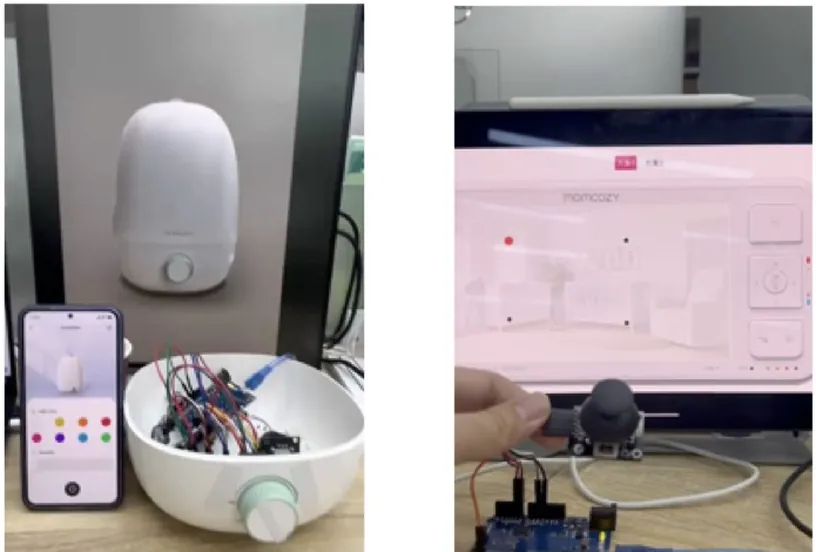
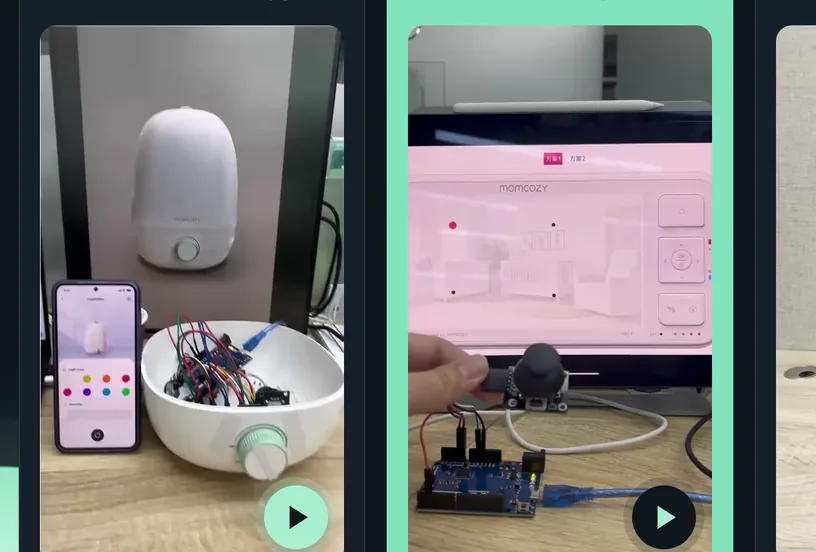
Refresh standardization and usability folder thumbnails (#27)
The STANDARDIZATION card now shows SmartHome, TSmartLife, and ECOMASTER sheets, and the usability thumbs are replaced.

diff --git a/app.html b/app.html
@@ -255,8 +255,9 @@
               <div class="gf-back" aria-hidden="true"><img class="gf-art" src="assets/images/works/cover-fluid-standardization.webp" alt="" loading="lazy" decoding="async" /><span class="gf-back-sheen"></span></div>
               <svg class="gf-rim gf-back-rim" viewBox="0 0 340 272" preserveAspectRatio="none" aria-hidden="true"><use href="#gf-path-back" /></svg>
               <div class="gf-files" aria-hidden="true">
-                <span class="gf-sheet gf-sheet--light" style="--depth: 1; --slot: -0.5; --gf-jx: -6; --gf-jr: -2.2deg"><span class="gf-lines"><i></i><i></i><i></i><i></i></span></span>
-                <span class="gf-sheet gf-sheet--light gf-sheet--icon" style="--depth: 0; --slot: 0.5; --gf-jx: 5; --gf-jr: 1.6deg"><img src="assets/images/Design_System_icon.svg" alt="" loading="lazy" decoding="async" /></span>
+                <span class="gf-sheet gf-sheet--art" style="--depth: 2; --slot: -1; --gf-jx: -6; --gf-jr: -2.2deg"><img src="assets/images/works/thumb-std-smarthome.webp" alt="" loading="lazy" decoding="async" /><span class="gf-sheet-name">SmartHome</span></span>
+                <span class="gf-sheet gf-sheet--art" style="--depth: 1; --slot: 0; --gf-jx: 5; --gf-jr: 1.6deg"><img src="assets/images/works/thumb-std-tsmartlife.webp" alt="" loading="lazy" decoding="async" /><span class="gf-sheet-name">TSmartLife</span></span>
+                <span class="gf-sheet gf-sheet--art" style="--depth: 0; --slot: 1; --gf-jx: -2; --gf-jr: -0.6deg"><img src="assets/images/works/thumb-std-ecomaster.webp" alt="" loading="lazy" decoding="async" /><span class="gf-sheet-name">ECOMASTER</span></span>
               </div>
               <div class="gf-front">
                 <span class="gf-tint" aria-hidden="true"></span><span class="gf-spec" aria-hidden="true"></span>

diff --git a/hardware.html b/hardware.html
@@ -264,8 +264,9 @@
               <div class="gf-back" aria-hidden="true"><img class="gf-art" src="assets/images/works/cover-fluid-standardization.webp" alt="" loading="lazy" decoding="async" /><span class="gf-back-sheen"></span></div>
               <svg class="gf-rim gf-back-rim" viewBox="0 0 340 272" preserveAspectRatio="none" aria-hidden="true"><use href="#gf-path-back" /></svg>
               <div class="gf-files" aria-hidden="true">
-                <span class="gf-sheet gf-sheet--light" style="--depth: 1; --slot: -0.5; --gf-jx: -6; --gf-jr: -2.2deg"><span class="gf-lines"><i></i><i></i><i></i><i></i></span></span>
-                <span class="gf-sheet gf-sheet--light gf-sheet--icon" style="--depth: 0; --slot: 0.5; --gf-jx: 5; --gf-jr: 1.6deg"><img src="assets/images/Design_System_icon.svg" alt="" loading="lazy" decoding="async" /></span>
+                <span class="gf-sheet gf-sheet--art" style="--depth: 2; --slot: -1; --gf-jx: -6; --gf-jr: -2.2deg"><img src="assets/images/works/thumb-std-smarthome.webp" alt="" loading="lazy" decoding="async" /><span class="gf-sheet-name">SmartHome</span></span>
+                <span class="gf-sheet gf-sheet--art" style="--depth: 1; --slot: 0; --gf-jx: 5; --gf-jr: 1.6deg"><img src="assets/images/works/thumb-std-tsmartlife.webp" alt="" loading="lazy" decoding="async" /><span class="gf-sheet-name">TSmartLife</span></span>
+                <span class="gf-sheet gf-sheet--art" style="--depth: 0; --slot: 1; --gf-jx: -2; --gf-jr: -0.6deg"><img src="assets/images/works/thumb-std-ecomaster.webp" alt="" loading="lazy" decoding="async" /><span class="gf-sheet-name">ECOMASTER</span></span>
               </div>
               <div class="gf-front">
                 <span class="gf-tint" aria-hidden="true"></span><span class="gf-spec" aria-hidden="true"></span>

diff --git a/index.html b/index.html
@@ -301,8 +301,9 @@
               <div class="gf-back" aria-hidden="true"><img class="gf-art" src="assets/images/works/cover-fluid-standardization.webp" alt="" loading="lazy" decoding="async" /><span class="gf-back-sheen"></span></div>
               <svg class="gf-rim gf-back-rim" viewBox="0 0 340 272" preserveAspectRatio="none" aria-hidden="true"><use href="#gf-path-back" /></svg>
               <div class="gf-files" aria-hidden="true">
-                <span class="gf-sheet gf-sheet--light" style="--depth: 1; --slot: -0.5; --gf-jx: -6; --gf-jr: -2.2deg"><span class="gf-lines"><i></i><i></i><i></i><i></i></span></span>
-                <span class="gf-sheet gf-sheet--light gf-sheet--icon" style="--depth: 0; --slot: 0.5; --gf-jx: 5; --gf-jr: 1.6deg"><img src="assets/images/Design_System_icon.svg" alt="" loading="lazy" decoding="async" /></span>
+                <span class="gf-sheet gf-sheet--art" style="--depth: 2; --slot: -1; --gf-jx: -6; --gf-jr: -2.2deg"><img src="assets/images/works/thumb-std-smarthome.webp" alt="" loading="lazy" decoding="async" /><span class="gf-sheet-name">SmartHome</span></span>
+                <span class="gf-sheet gf-sheet--art" style="--depth: 1; --slot: 0; --gf-jx: 5; --gf-jr: 1.6deg"><img src="assets/images/works/thumb-std-tsmartlife.webp" alt="" loading="lazy" decoding="async" /><span class="gf-sheet-name">TSmartLife</span></span>
+                <span class="gf-sheet gf-sheet--art" style="--depth: 0; --slot: 1; --gf-jx: -2; --gf-jr: -0.6deg"><img src="assets/images/works/thumb-std-ecomaster.webp" alt="" loading="lazy" decoding="async" /><span class="gf-sheet-name">ECOMASTER</span></span>
               </div>
               <div class="gf-front">
                 <span class="gf-tint" aria-hidden="true"></span><span class="gf-spec" aria-hidden="true"></span>

diff --git a/insights.html b/insights.html
@@ -212,8 +212,9 @@
               <div class="gf-back" aria-hidden="true"><img class="gf-art" src="assets/images/works/cover-fluid-standardization.webp" alt="" loading="lazy" decoding="async" /><span class="gf-back-sheen"></span></div>
               <svg class="gf-rim gf-back-rim" viewBox="0 0 340 272" preserveAspectRatio="none" aria-hidden="true"><use href="#gf-path-back" /></svg>
               <div class="gf-files" aria-hidden="true">
-                <span class="gf-sheet gf-sheet--light" style="--depth: 1; --slot: -0.5; --gf-jx: -6; --gf-jr: -2.2deg"><span class="gf-lines"><i></i><i></i><i></i><i></i></span></span>
-                <span class="gf-sheet gf-sheet--light gf-sheet--icon" style="--depth: 0; --slot: 0.5; --gf-jx: 5; --gf-jr: 1.6deg"><img src="assets/images/Design_System_icon.svg" alt="" loading="lazy" decoding="async" /></span>
+                <span class="gf-sheet gf-sheet--art" style="--depth: 2; --slot: -1; --gf-jx: -6; --gf-jr: -2.2deg"><img src="assets/images/works/thumb-std-smarthome.webp" alt="" loading="lazy" decoding="async" /><span class="gf-sheet-name">SmartHome</span></span>
+                <span class="gf-sheet gf-sheet--art" style="--depth: 1; --slot: 0; --gf-jx: 5; --gf-jr: 1.6deg"><img src="assets/images/works/thumb-std-tsmartlife.webp" alt="" loading="lazy" decoding="async" /><span class="gf-sheet-name">TSmartLife</span></span>
+                <span class="gf-sheet gf-sheet--art" style="--depth: 0; --slot: 1; --gf-jx: -2; --gf-jr: -0.6deg"><img src="assets/images/works/thumb-std-ecomaster.webp" alt="" loading="lazy" decoding="async" /><span class="gf-sheet-name">ECOMASTER</span></span>
               </div>
               <div class="gf-front">
                 <span class="gf-tint" aria-hidden="true"></span><span class="gf-spec" aria-hidden="true"></span>

diff --git a/measurement.html b/measurement.html
@@ -160,8 +160,9 @@
               <div class="gf-back" aria-hidden="true"><img class="gf-art" src="assets/images/works/cover-fluid-standardization.webp" alt="" loading="lazy" decoding="async" /><span class="gf-back-sheen"></span></div>
               <svg class="gf-rim gf-back-rim" viewBox="0 0 340 272" preserveAspectRatio="none" aria-hidden="true"><use href="#gf-path-back" /></svg>
               <div class="gf-files" aria-hidden="true">
-                <span class="gf-sheet gf-sheet--light" style="--depth: 1; --slot: -0.5; --gf-jx: -6; --gf-jr: -2.2deg"><span class="gf-lines"><i></i><i></i><i></i><i></i></span></span>
-                <span class="gf-sheet gf-sheet--light gf-sheet--icon" style="--depth: 0; --slot: 0.5; --gf-jx: 5; --gf-jr: 1.6deg"><img src="assets/images/Design_System_icon.svg" alt="" loading="lazy" decoding="async" /></span>
+                <span class="gf-sheet gf-sheet--art" style="--depth: 2; --slot: -1; --gf-jx: -6; --gf-jr: -2.2deg"><img src="assets/images/works/thumb-std-smarthome.webp" alt="" loading="lazy" decoding="async" /><span class="gf-sheet-name">SmartHome</span></span>
+                <span class="gf-sheet gf-sheet--art" style="--depth: 1; --slot: 0; --gf-jx: 5; --gf-jr: 1.6deg"><img src="assets/images/works/thumb-std-tsmartlife.webp" alt="" loading="lazy" decoding="async" /><span class="gf-sheet-name">TSmartLife</span></span>
+                <span class="gf-sheet gf-sheet--art" style="--depth: 0; --slot: 1; --gf-jx: -2; --gf-jr: -0.6deg"><img src="assets/images/works/thumb-std-ecomaster.webp" alt="" loading="lazy" decoding="async" /><span class="gf-sheet-name">ECOMASTER</span></span>
               </div>
               <div class="gf-front">
                 <span class="gf-tint" aria-hidden="true"></span><span class="gf-spec" aria-hidden="true"></span>

diff --git a/standardization.html b/standardization.html
@@ -211,8 +211,9 @@
               <div class="gf-back" aria-hidden="true"><img class="gf-art" src="assets/images/works/cover-fluid-standardization.webp" alt="" loading="lazy" decoding="async" /><span class="gf-back-sheen"></span></div>
               <svg class="gf-rim gf-back-rim" viewBox="0 0 340 272" preserveAspectRatio="none" aria-hidden="true"><use href="#gf-path-back" /></svg>
               <div class="gf-files" aria-hidden="true">
-                <span class="gf-sheet gf-sheet--light" style="--depth: 1; --slot: -0.5; --gf-jx: -6; --gf-jr: -2.2deg"><span class="gf-lines"><i></i><i></i><i></i><i></i></span></span>
-                <span class="gf-sheet gf-sheet--light gf-sheet--icon" style="--depth: 0; --slot: 0.5; --gf-jx: 5; --gf-jr: 1.6deg"><img src="assets/images/Design_System_icon.svg" alt="" loading="lazy" decoding="async" /></span>
+                <span class="gf-sheet gf-sheet--art" style="--depth: 2; --slot: -1; --gf-jx: -6; --gf-jr: -2.2deg"><img src="assets/images/works/thumb-std-smarthome.webp" alt="" loading="lazy" decoding="async" /><span class="gf-sheet-name">SmartHome</span></span>
+                <span class="gf-sheet gf-sheet--art" style="--depth: 1; --slot: 0; --gf-jx: 5; --gf-jr: 1.6deg"><img src="assets/images/works/thumb-std-tsmartlife.webp" alt="" loading="lazy" decoding="async" /><span class="gf-sheet-name">TSmartLife</span></span>
+                <span class="gf-sheet gf-sheet--art" style="--depth: 0; --slot: 1; --gf-jx: -2; --gf-jr: -0.6deg"><img src="assets/images/works/thumb-std-ecomaster.webp" alt="" loading="lazy" decoding="async" /><span class="gf-sheet-name">ECOMASTER</span></span>
               </div>
               <div class="gf-front">
                 <span class="gf-tint" aria-hidden="true"></span><span class="gf-spec" aria-hidden="true"></span>

diff --git a/usability.html b/usability.html
@@ -372,8 +372,9 @@
               <div class="gf-back" aria-hidden="true"><img class="gf-art" src="assets/images/works/cover-fluid-standardization.webp" alt="" loading="lazy" decoding="async" /><span class="gf-back-sheen"></span></div>
               <svg class="gf-rim gf-back-rim" viewBox="0 0 340 272" preserveAspectRatio="none" aria-hidden="true"><use href="#gf-path-back" /></svg>
               <div class="gf-files" aria-hidden="true">
-                <span class="gf-sheet gf-sheet--light" style="--depth: 1; --slot: -0.5; --gf-jx: -6; --gf-jr: -2.2deg"><span class="gf-lines"><i></i><i></i><i></i><i></i></span></span>
-                <span class="gf-sheet gf-sheet--light gf-sheet--icon" style="--depth: 0; --slot: 0.5; --gf-jx: 5; --gf-jr: 1.6deg"><img src="assets/images/Design_System_icon.svg" alt="" loading="lazy" decoding="async" /></span>
+                <span class="gf-sheet gf-sheet--art" style="--depth: 2; --slot: -1; --gf-jx: -6; --gf-jr: -2.2deg"><img src="assets/images/works/thumb-std-smarthome.webp" alt="" loading="lazy" decoding="async" /><span class="gf-sheet-name">SmartHome</span></span>
+                <span class="gf-sheet gf-sheet--art" style="--depth: 1; --slot: 0; --gf-jx: 5; --gf-jr: 1.6deg"><img src="assets/images/works/thumb-std-tsmartlife.webp" alt="" loading="lazy" decoding="async" /><span class="gf-sheet-name">TSmartLife</span></span>
+                <span class="gf-sheet gf-sheet--art" style="--depth: 0; --slot: 1; --gf-jx: -2; --gf-jr: -0.6deg"><img src="assets/images/works/thumb-std-ecomaster.webp" alt="" loading="lazy" decoding="async" /><span class="gf-sheet-name">ECOMASTER</span></span>
               </div>
               <div class="gf-front">
                 <span class="gf-tint" aria-hidden="true"></span><span class="gf-spec" aria-hidden="true"></span>
